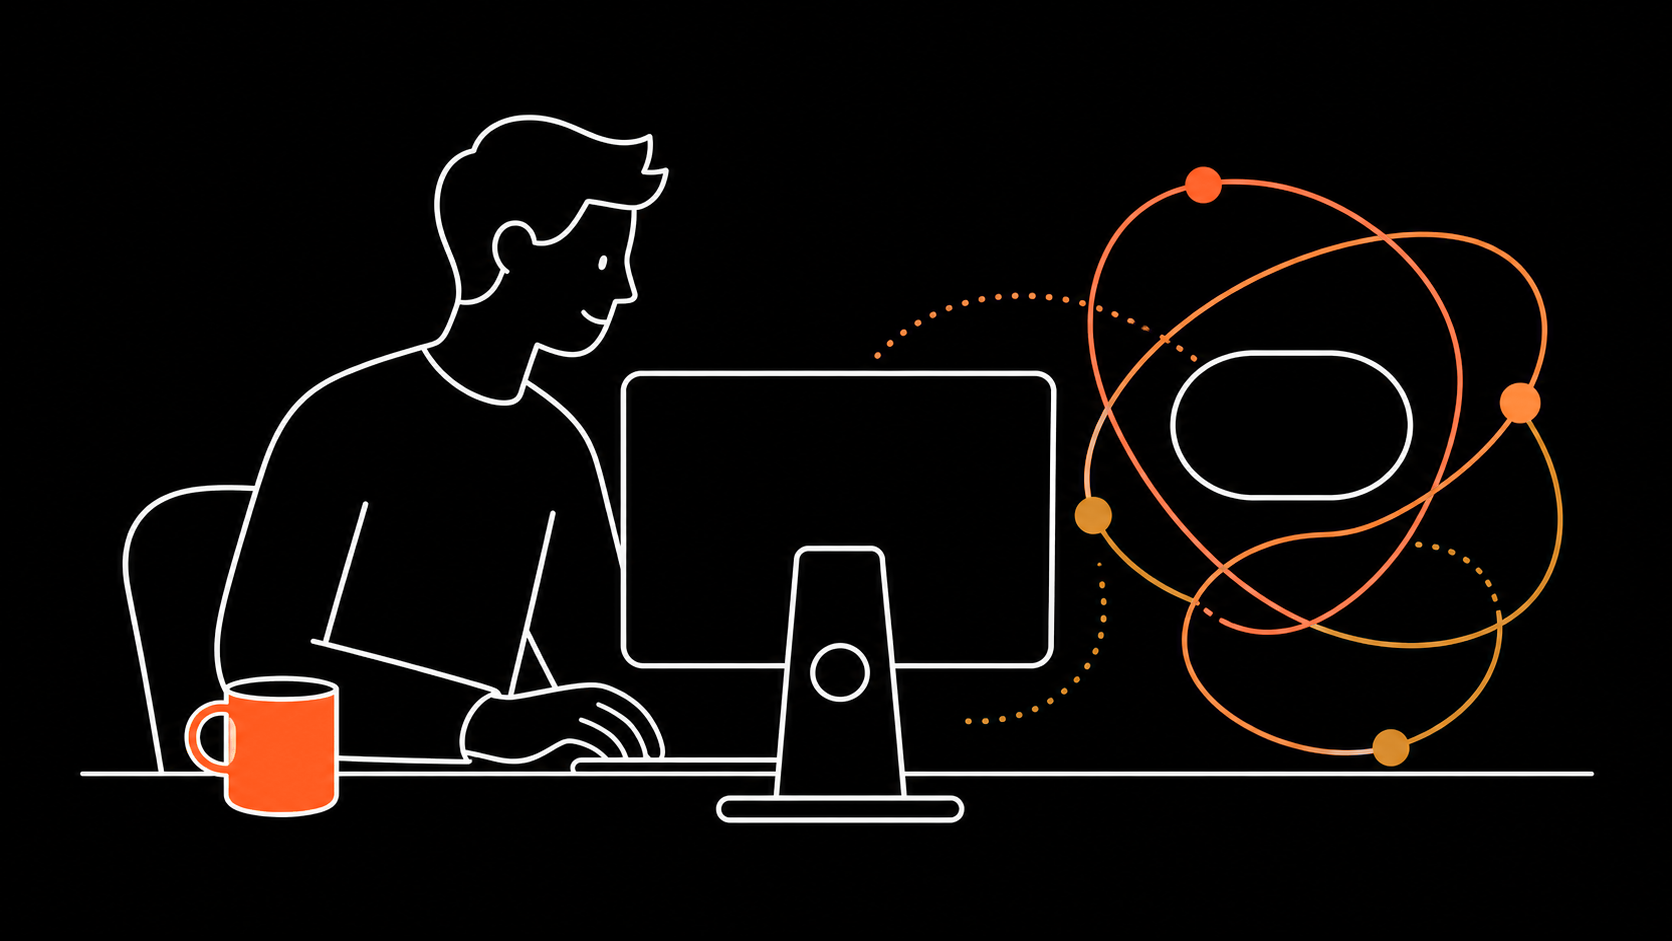
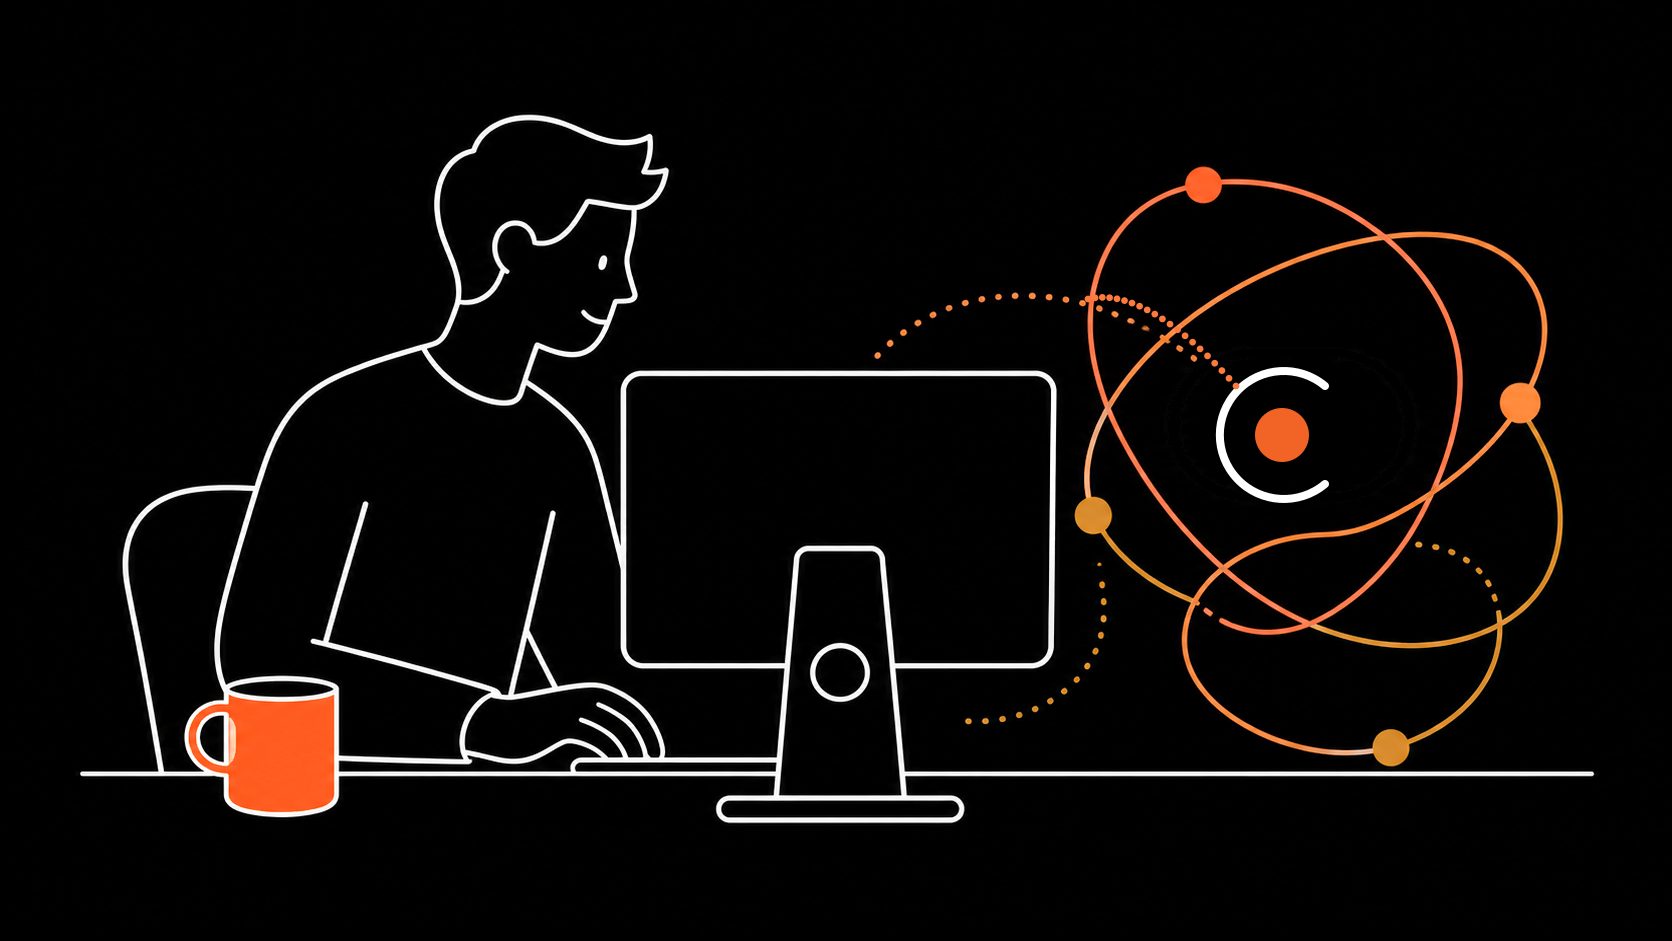
Use round C face in brand mockups

diff --git a/docs/design/curyo-human-loop-brand-mockups.html b/docs/design/curyo-human-loop-brand-mockups.html
@@ -564,22 +564,32 @@
         position: relative;
         z-index: 3;
         display: grid;
-        width: 48px;
-        height: 30px;
+        width: 58px;
+        height: 58px;
         place-items: center;
-        border: 3px solid #ffffff;
-        border-radius: 999px;
         background: #000000;
       }
 
       .c-avatar-face {
+        position: relative;
         display: block;
-        width: 23px;
-        height: 19px;
-        border: 5px solid var(--orange);
+        width: 43px;
+        height: 43px;
+        border: 5px solid #ffffff;
         border-right-color: transparent;
         border-radius: 50%;
-        transform: rotate(-10deg);
+      }
+
+      .c-avatar-face::after {
+        content: "";
+        position: absolute;
+        top: 50%;
+        left: 50%;
+        width: 17px;
+        height: 17px;
+        border-radius: 50%;
+        background: var(--orange);
+        transform: translate(-50%, -50%);
       }
 
       .avatar-orb.human .mug-mark {
@@ -749,13 +759,18 @@
       }
 
       .loop-mark.white-outside .c-fill {
-        inset: 30px 25px 30px 21px;
-        border-radius: 999px;
-        background: linear-gradient(90deg, var(--orange), var(--orange-2));
+        top: 50%;
+        left: 50%;
+        width: 35px;
+        height: 35px;
+        border-radius: 50%;
+        background: var(--orange);
+        transform: translate(-50%, -50%);
       }
 
       .loop-mark.white-outside.small .c-fill {
-        inset: 13px 10px 13px 9px;
+        width: 13px;
+        height: 13px;
       }
 
       .loop-mark.orbit-c .c-outer {
@@ -774,32 +789,46 @@
 
       .loop-mark.face-c .face-window {
         z-index: 2;
-        width: 56px;
-        height: 34px;
-        border: 4px solid #ffffff;
-        border-radius: 999px;
+        width: 60px;
+        height: 60px;
+        border-radius: 50%;
       }
 
       .loop-mark.face-c .c-window {
         z-index: 3;
-        width: 28px;
-        height: 22px;
-        border: 5px solid var(--orange);
+        width: 49px;
+        height: 49px;
+        border: 6px solid #ffffff;
         border-right-color: transparent;
         border-radius: 50%;
-        transform: rotate(-10deg);
+      }
+
+      .loop-mark.face-c .c-window::after {
+        content: "";
+        position: absolute;
+        top: 50%;
+        left: 50%;
+        width: 19px;
+        height: 19px;
+        border-radius: 50%;
+        background: var(--orange);
+        transform: translate(-50%, -50%);
       }
 
       .loop-mark.face-c.small .face-window {
         width: 24px;
-        height: 15px;
-        border-width: 2px;
+        height: 24px;
       }
 
       .loop-mark.face-c.small .c-window {
-        width: 12px;
-        height: 10px;
-        border-width: 2px;
+        width: 22px;
+        height: 22px;
+        border-width: 3px;
+      }
+
+      .loop-mark.face-c.small .c-window::after {
+        width: 8px;
+        height: 8px;
       }
 
       .loop-mark.face-c .orbit-line {
@@ -872,33 +901,36 @@
         position: relative;
         z-index: 2;
         display: grid;
-        width: 66px;
-        height: 42px;
+        width: 80px;
+        height: 80px;
         place-items: center;
-        border: 4px solid #ffffff;
-        border-radius: 999px;
         background: #000000;
       }
 
       .ai-head .face-c {
-        width: 26px;
-        height: 22px;
-        border: 5px solid var(--orange);
+        position: relative;
+        width: 61px;
+        height: 61px;
+        border: 7px solid #ffffff;
         border-right-color: transparent;
         border-radius: 50%;
-        transform: rotate(-10deg);
       }
 
-      .ai-head.white-fill .face-shell {
-        border-color: #ffffff;
+      .ai-head .face-c::after {
+        content: "";
+        position: absolute;
+        top: 50%;
+        left: 50%;
+        width: 24px;
+        height: 24px;
+        border-radius: 50%;
+        background: var(--orange);
+        transform: translate(-50%, -50%);
       }
 
       .ai-head.white-fill .face-c {
-        width: 34px;
-        height: 24px;
-        border-width: 0;
-        border-radius: 999px;
-        background: linear-gradient(90deg, var(--orange), var(--orange-2));
+        width: 68px;
+        height: 68px;
       }
 
       .ai-head.minimal::before {
@@ -1336,41 +1368,21 @@
       </section>
 
       <h2 class="section-title">Hero Art Direction</h2>
-      <section class="hero-art-card" aria-label="Refined hero art">
-        <figure>
-          <img
-            src="assets/curyo-human-loop-orange-orbits.png"
-            alt="Human working at a desktop computer beside an abstract AI collaborator with orange orbit lines"
-          />
-        </figure>
-        <aside class="hero-art-notes">
-          <div class="kicker">Locked base direction</div>
-          <h2>White Lines + Friendly Human Loop</h2>
-          <ul>
-            <li>Use the preferred raster image rather than the simplified redraw.</li>
-            <li>Keep the human, desktop computer, mug, and AI in the original positions.</li>
-            <li>Replace the multicolor orbit accents with orange-family shades.</li>
-            <li>Make the first read: AI working together with a human.</li>
-          </ul>
-        </aside>
-      </section>
-
-      <h2 class="section-title">Neutral AI Variant</h2>
       <section class="hero-art-card" aria-label="Neutral AI hero art variant">
         <figure>
           <img
             src="assets/curyo-human-loop-orange-orbits-neutral-ai.png"
-            alt="Human working at a desktop computer beside a faceless abstract AI collaborator with orange orbit lines"
+            alt="Human working at a desktop computer beside an abstract AI collaborator with a round C face and orange orbit lines"
           />
         </figure>
         <aside class="hero-art-notes">
-          <div class="kicker">Alternate AI tone</div>
-          <h2>Less Cute, More System-Like</h2>
+          <div class="kicker">Locked base direction</div>
+          <h2>White Lines + Round C Face</h2>
           <ul>
             <li>Same human, mug, monitor, black background, and orange orbit palette.</li>
-            <li>AI face details are removed so the character reads less mascot-like.</li>
-            <li>Still preserves the friendly human-in-the-loop composition.</li>
-            <li>Useful if the main hero should feel more serious or infrastructure-oriented.</li>
+            <li>AI face becomes a round C mark: white outside stroke, orange filled circle inside.</li>
+            <li>The orange center stays separated from the white C so the mark has breathing room.</li>
+            <li>Removes literal facial features while preserving the human-in-the-loop composition.</li>
           </ul>
         </aside>
       </section>
@@ -1380,27 +1392,23 @@
         <div class="identity-options">
           <article class="identity-option">
             <div class="kicker">Recommended</div>
-            <h2>Neutral Orbit Capsule</h2>
+            <h2>Round C Core</h2>
             <div class="mark-stage" aria-hidden="true">
               <div class="mark-size-stack">
-                <span class="neutral-mark">
-                  <span class="orbit-line"></span>
-                  <span class="orbit-line secondary"></span>
-                  <span class="orbit-node"></span>
-                  <span class="ai-capsule"></span>
+                <span class="loop-mark white-outside">
+                  <span class="c-outer"></span>
+                  <span class="c-fill"></span>
                 </span>
-                <span class="neutral-mark small">
-                  <span class="orbit-line"></span>
-                  <span class="orbit-line secondary"></span>
-                  <span class="orbit-node"></span>
-                  <span class="ai-capsule"></span>
+                <span class="loop-mark white-outside small">
+                  <span class="c-outer"></span>
+                  <span class="c-fill"></span>
                 </span>
               </div>
               <span class="brand-name">Curyo</span>
             </div>
             <p>
-              Best fit if the new hero uses the faceless AI: it keeps the AI presence, removes the mascot feel, and
-              scales down better than the full scene.
+              Best fit with the new hero: a round white C outside, a separated orange core inside, and no mascot face
+              details. It scales down cleanly for favicon use.
             </p>
           </article>
 
@@ -1474,8 +1482,8 @@
               </span>
             </div>
             <p>
-              Strongest bridge to the hero image: white structural line on the outside, orange intelligence/signal on
-              the inside. This could become both favicon and AI face language.
+              Strongest bridge to the hero image: white structural C on the outside, orange intelligence/signal in the
+              center, with clear black space between both shapes.
             </p>
           </article>
 
@@ -1500,7 +1508,7 @@
 
           <article class="loop-variant">
             <div class="kicker">AI face candidate</div>
-            <h2>C Window</h2>
+            <h2>Round C Face</h2>
             <div class="loop-mark-row" aria-hidden="true">
               <span class="loop-mark face-c">
                 <span class="orbit-line"></span>
@@ -1515,8 +1523,8 @@
               </span>
             </div>
             <p>
-              Treat the C as the AI face/window instead of eyes or a smile. This keeps the AI abstract and makes the
-              product mark show up inside the character.
+              Treat the round C plus orange core as the AI face instead of a capsule or literal facial features. This
+              keeps the AI abstract and lets the product mark show up inside the character.
             </p>
           </article>
         </div>
@@ -1527,13 +1535,13 @@
               <span class="ai-head" aria-hidden="true">
                 <span class="face-shell"><span class="face-c"></span></span>
               </span>
-              <span>C as AI window</span>
+              <span>Round C face</span>
             </div>
             <div class="ai-face-sample">
               <span class="ai-head white-fill" aria-hidden="true">
                 <span class="face-shell"><span class="face-c"></span></span>
               </span>
-              <span>Orange inner signal</span>
+              <span>Larger hero face</span>
             </div>
             <div class="ai-face-sample">
               <span class="ai-head minimal" aria-hidden="true">
@@ -1546,9 +1554,9 @@
             <div class="kicker">Recommendation</div>
             <h2>Use the C as the Neutral AI Face</h2>
             <p>
-              The white-outside/orange-inside version is the strongest candidate. It keeps the AI from becoming cute,
-              gives the neutral variant a recognizable center, and lets the favicon, AI avatar, and hero art share one
-              visual grammar.
+              The white round C with a separated orange center is the strongest candidate. It keeps the AI from
+              becoming cute, gives the neutral variant a recognizable center, and lets the favicon, AI avatar, and hero
+              art share one visual grammar.
             </p>
           </aside>
         </div>
@@ -1584,7 +1592,7 @@
             density and shade can communicate role or status without adding cute facial features.
           </p>
           <ul>
-            <li>AI agents: white capsule face with the orange C signal inside.</li>
+            <li>AI agents: round white C face with the separated orange core inside.</li>
             <li>Humans: human signal mark inside the same orb container.</li>
             <li>Pools: concentric orange rings for aggregated judgment.</li>
             <li>Pending or low-confidence states: dimmer orange and dotted orbit treatment.</li>
@@ -1637,8 +1645,8 @@
                 </div>
                 <figure class="landing-art">
                   <img
-                    src="assets/curyo-human-loop-orange-orbits.png"
-                    alt="Hero mockup showing a human working with an abstract AI collaborator"
+                    src="assets/curyo-human-loop-orange-orbits-neutral-ai.png"
+                    alt="Hero mockup showing a human working with an abstract AI collaborator with a round C face"
                   />
                 </figure>
               </section>
